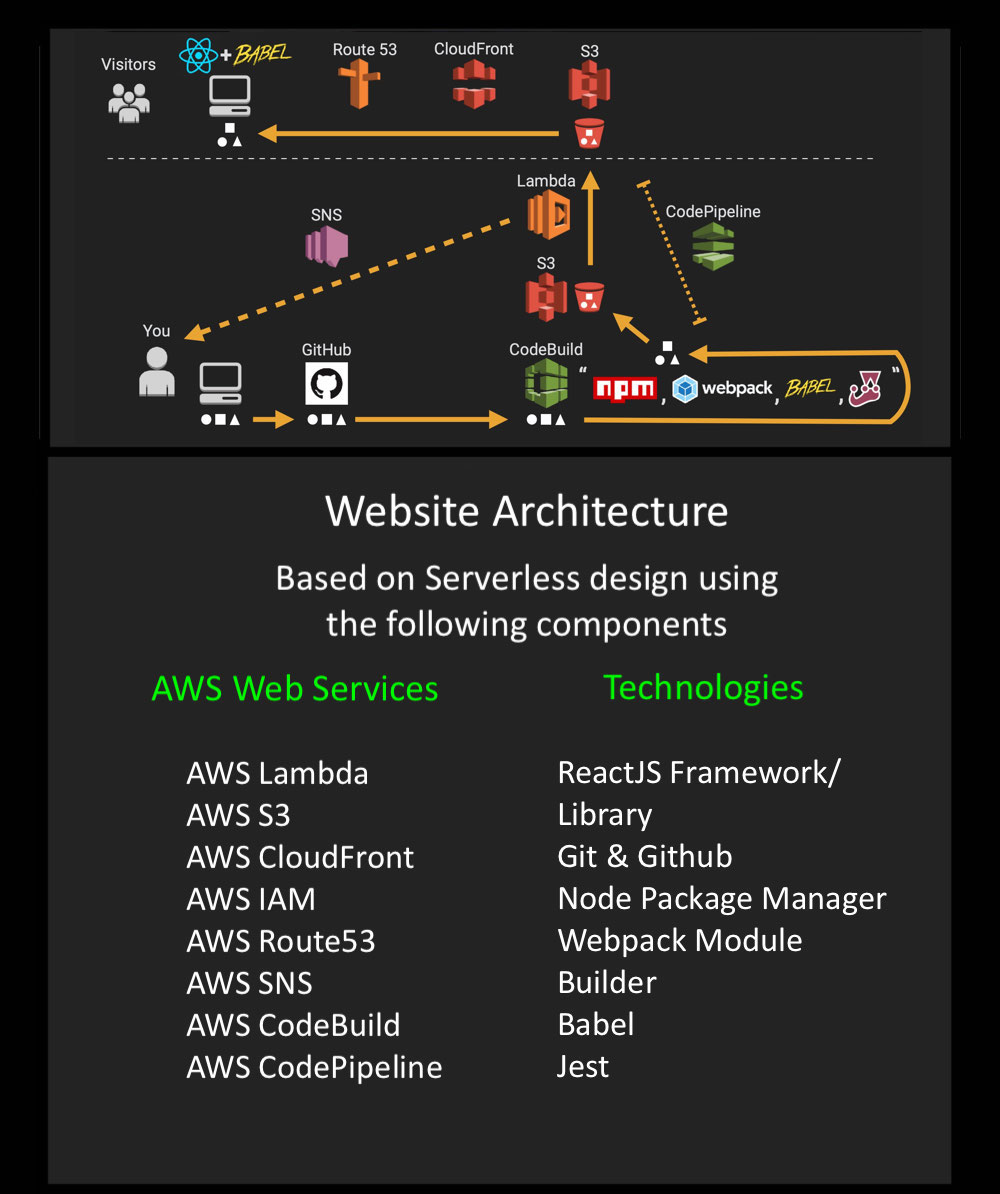
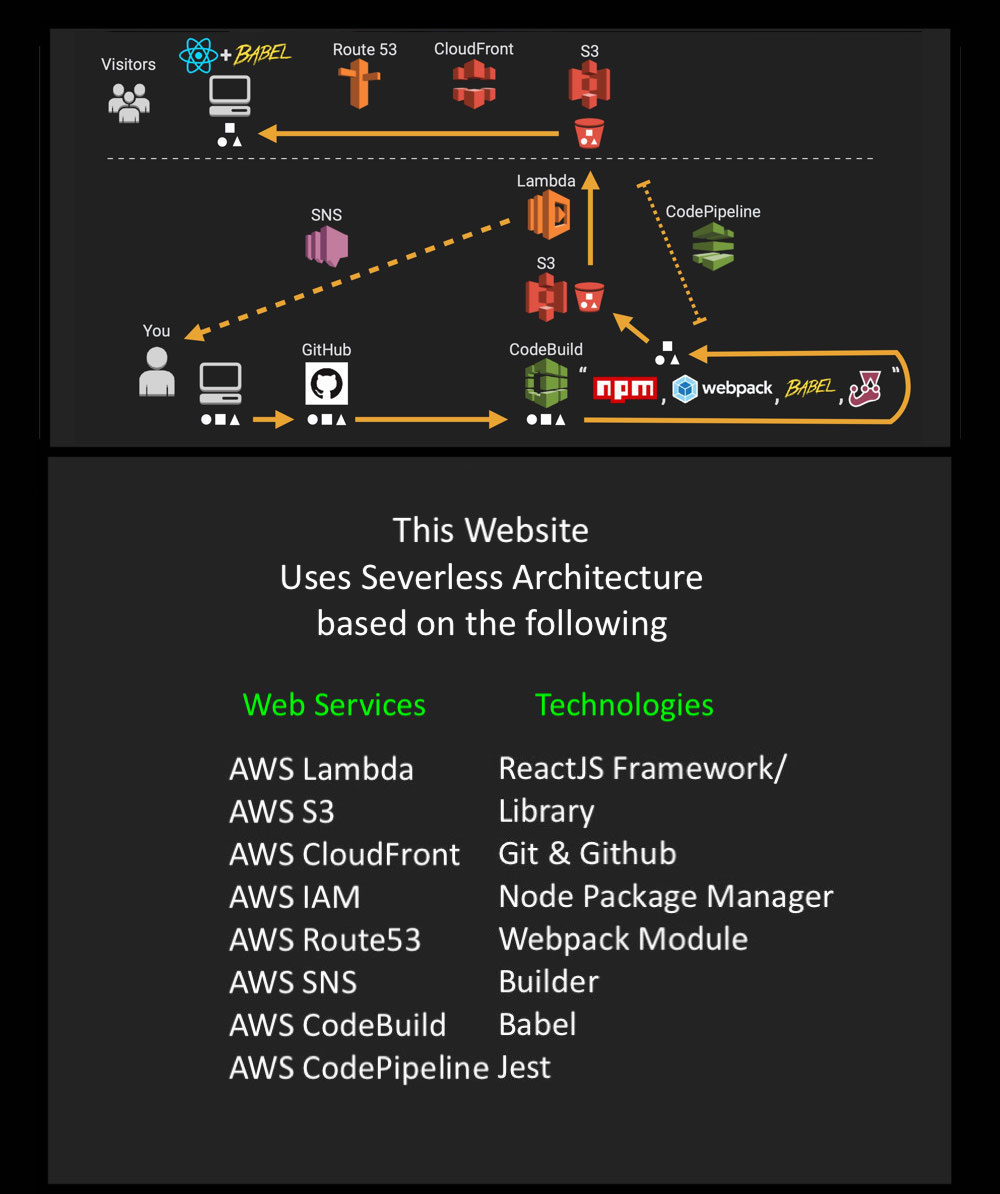
updated

Changed region(s): [[0.155, 0.4028, 0.899, 0.9296]]

diff --git a/index.html b/index.html
@@ -85,19 +85,12 @@
     <section class="ftco-about img ftco-section ftco-no-pb" id="about-section">
     	<div class="container">
     		<div class="row d-flex">
-    			<div class="col-md-6 col-lg-5 d-flex">
-    				<div class="img-about img d-flex align-items-stretch">
-    					<div class="overlay"></div>
-	    				<div class="img d-flex align-self-stretch align-items-center" style="background-image:url(images/about.jpg);">
-	    				</div>
-    				</div>
-    			</div>
     			<div class="col-md-6 col-lg-7 pl-lg-5 pb-5">
     				<div class="row justify-content-start pb-3">
 		          <div class="col-md-12 heading-section ftco-animate">
 		          	<h1 class="big">About Me</h1>
 		            <h2 class="mb-4">About Me</h2>
-		            <p>In today's complex integrated world it can be difficult to see the wood from the trees, simplifying complexity is what I do. Delivering efficiency and business agility by working smarter. Providing enterprise grade solution architecture services to maximise the use of IT infrastructure, Information Systems and Application services utillising cloud & automation based technologies. I am a lateral thinker and have the ability to work in global, virtual teams and in Agile delivery environments. I have strong realationship building skills and communicate well with technical and business stakeholders.  </p>
+		            <p>In today's complex integrated world it can be difficult to see the wood from the trees, simplifying complexity is what I do. Delivering efficiency and business agility by working smarter. Providing enterprise grade solution architecture services to maximise the use of IT infrastructure, Information Systems and Application services utillising cloud & automation based technologies as shown opposite for this website. I am a lateral thinker and have the ability to work in global, virtual teams and in Agile delivery environments. I have strong realationship building skills and communicate well with technical and business stakeholders.  </p>
 		            <ul class="about-info mt-4 px-md-0 px-2">
 		            	<li class="d-flex"><span>Name:</span> <span>Alex Duncan</span></li>
 		            	<li class="d-flex"><span>Address:</span> <span>Sydney, Australia</span></li>
@@ -108,6 +101,13 @@
 		          </div>
 		        </div>
 	        </div>
+          <div class="col-md-6 col-lg-5 d-flex">
+    				<div class="img-about img d-flex align-items-stretch">
+    					<div class="overlay"></div>
+	    				<div class="img d-flex align-self-stretch align-items-center" style="background-image:url(images/about.jpg);">
+	    				</div>
+    				</div>
+    		 </div>
         </div>
     	</div>
     </section>
@@ -251,8 +251,7 @@ Key elements used within this assignment were; SOA Patterns, responsive and adap
           <div class="col-md-12 heading-section text-center ftco-animate">
           	<h1 class="big big-2">Capability</h1>
             <h2 class="mb-4">Capability</h2>
-            <p>The following highlights the Focus and Proficiency Levels of services I provide for the elements shown.</p>
-            <p>Focus measured (%) of time allocation.  Proficiency Level measured on scale of Very High, High or Medium.</p>
+            <p>The following highlights the areas of Focus and Proficiency Levels for services I provide.</p>
           </div>
         </div>
 				<div class="row">
@@ -306,7 +305,7 @@ Key elements used within this assignment were; SOA Patterns, responsive and adap
 							<div class="progress">
 							 	<div class="progress-bar color-5" role="progressbar" aria-valuenow="20"
 							  	aria-valuemin="0" aria-valuemax="100" style="width:50%">
-							    <span>Medium</span>
+							    <span>Med</span>
 							  	</div>
 							</div>
 						</div>
